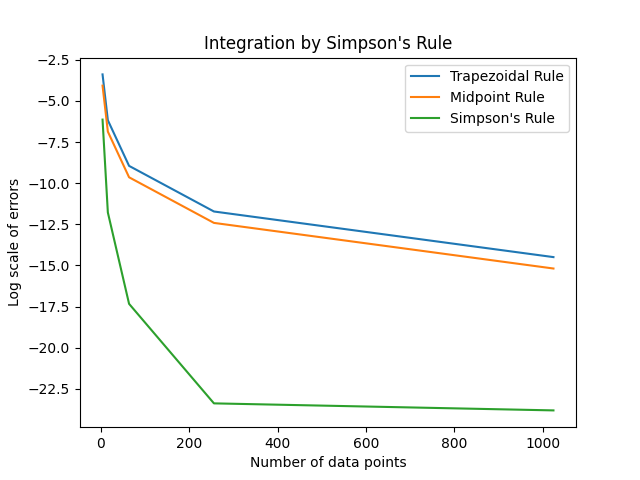
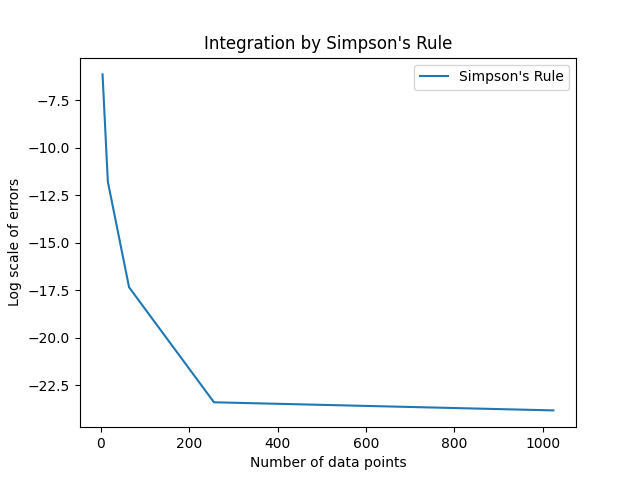
Added excel file with errors table

diff --git a/Homework 1/main.py b/Homework 1/main.py
@@ -93,8 +93,8 @@ if __name__ == "__main__":
     Tb = 2.0
 
     num_data_points = [2**2, 2**4, 2**6, 2**8, 2**10]
-    calculate_and_print_integral_results(trapezoidal_rule, "Trapezoidal Rule", num_data_points)
-    calculate_and_print_integral_results(midpoint_rule, "Midpoint Rule", num_data_points)
+    # calculate_and_print_integral_results(midpoint_rule, "Midpoint Rule", num_data_points)
+    # calculate_and_print_integral_results(trapezoidal_rule, "Trapezoidal Rule", num_data_points)
     calculate_and_print_integral_results(simpsons_rule, "Simpson's Rule", num_data_points)
 
     
